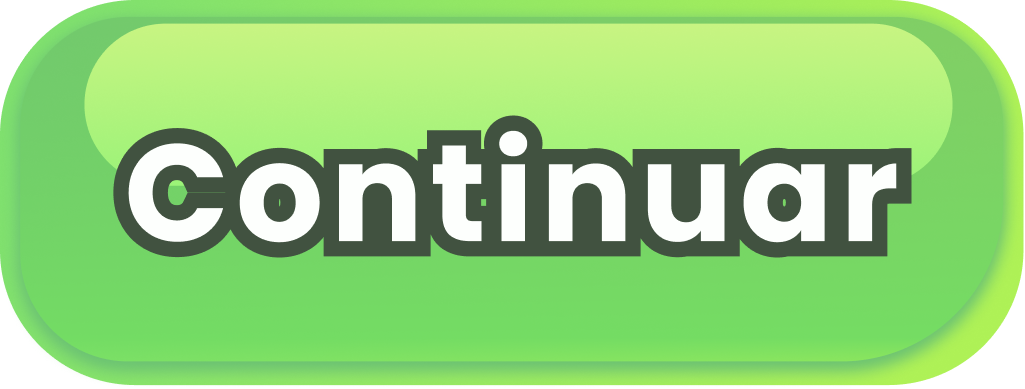
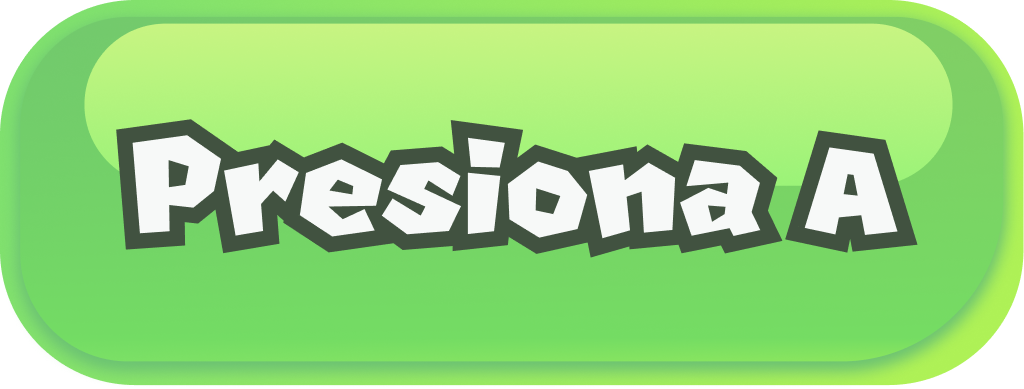
Responsive interfaces Mupi

Changed region(s): [[0.0938, 0.2776, 0.9062, 0.6787]]

diff --git a/node-serial-com-websocket-server/public-home/style.css b/node-serial-com-websocket-server/public-home/style.css
@@ -87,7 +87,7 @@ button:active:after {
 /* Screens */
 
 #Home{
-    display: block;
+    display: none;
 }
 
 #Connected{
@@ -115,16 +115,16 @@ button:active:after {
 }
 
 #Disconnect{
-    display: none;
+    display: block;
 }
 
 /* Home */
 
     #SMUpLogo{
         position: absolute;
-        width: 13vw;
-        left: 4.5vw;
-        top: 4.6vh;
+        width: 248px;
+        left: 28.43px;
+        top: 50.23px;
     }
 
     #NubesFront{
@@ -147,27 +147,27 @@ button:active:after {
 
     #NintendoLogo{
         position: absolute;
-        width: 10.4vw;
+        width: 200px;
         height: auto;
-        left: 42vw;
-        top: 4.6vh;
+        left: 634px;
+        top: 34px;
     }
 
     #titleHome{
         color: #E1F3FE;
         font-family: 'MARIO_Font_v3_Solid';
-        font-size: 35px;
+        font-size: 50px;
         font-weight: 700;
         position: absolute;
-        width: 398px;
+        width: 399.91px;
         height: 48px;
-        left: 0;
-        top: 115vh;
+        left: 9px;
+        top: 803.82px;
         letter-spacing: 0.2rem;
         text-align: center;
         transform: rotate(-5.43deg);
         text-shadow: 0px 4px 4px rgba(0, 0, 0, 0.25);
-        line-height: 4.6vh;
+        line-height: 50px;
     }
 
     
@@ -181,25 +181,34 @@ button:active:after {
     
     #GoombaFalling{
         position: absolute;
-        width: 13vw;
+        width: 196px;
         height: auto;
-        left: 20vw;
-        top: 958px;
+        left: 362px;
+        top: 955px;
         z-index: 3;
     }
     
     #MarioFlag{
         position: absolute;
-        width: 38vw;
+        width: 565px;
         height: auto;
-        right: 1.5vw;
-        bottom: 0;
+        left: 288px;
+        top: 200px;
         filter: drop-shadow(0px 4px 4px rgba(0, 0, 0, 0.25));
     }
     
     #LineasFondo{
         width: 859px;
         height: 1253px;
+    }
+
+    #continueHome{
+        position: absolute;
+        width: 203.92px;
+        height: auto;
+        left: 107.26px;
+        top: 915.17px;
+        transform: rotate(-5.28deg);
     }
 
 /* Mupi connected / Bienvenida */
@@ -211,20 +220,21 @@ button:active:after {
 
             #titleBienvenida{
                 position: absolute;
-                width: 700px;
-                height: 90px;
-                left: 70px;
-                top: 87px;
+                width: 696px;
+                height: 159px;
+                left: 87px;
+                top: 111px;
+
                 font-family: 'MARIO_Font_v3_Solid';
                 font-weight: 700;
-                font-size: 5.4vw;
-                line-height: 80px;
+                font-size: 100px;
+                line-height: 74px;
                 text-align: center;
-                background-image: -webkit-linear-gradient( #FBE883 20%, #F2C700 80%, #EEC300 80%);
+                background: linear-gradient(180deg, #FBE883 9.12%, #F2C700 60.84%, #EEC300 95.91%);
                 -webkit-background-clip: text;
                 -webkit-text-fill-color: transparent;
-                -webkit-text-stroke: 5.3px black;
-                letter-spacing: -0.18rem;
+                -webkit-text-stroke: 6px black;
+                letter-spacing: -0.025em;
                 
             }
 
@@ -232,18 +242,18 @@ button:active:after {
                 position: absolute;
                 width: 707px;
                 height: 548.54px;
-                right: 5vw;
+                left: 76px;
                 top: 294px; 
             }
 
                 #descriptionConnected{
                     position: absolute;
-                    width: 504px;
-                    height: 22px;
+                    width: 500px;
+                    height: 78px;
                     left: 146px;
-                    top: 47vh;
+                    top: 339px;
                     font-style: normal;
-                    font-weight: 500;
+                    font-weight: 600;
                     font-size: 35px;
                     line-height: 39px;
                     text-align: left;
@@ -259,17 +269,17 @@ button:active:after {
                     left: 146px;
                     top: 464px;
                     font-weight: 500;
-                    font-size: 27px;
+                    font-size: 30px;
                     line-height: 40px;
                     text-align: left;
                 }
 
                 #control{
                     position: absolute;
-                    width: 180px;
+                    width: 200px;
                     height: auto;
-                    right: 7vw;
-                    top: 87vh;
+                    left: 570px;
+                    top: 630px;
                     filter: drop-shadow(3.12329px 3.12329px 4.68493px rgba(0, 0, 0, 0.3));
                     transform: rotate(-25deg);
                 }
@@ -278,8 +288,8 @@ button:active:after {
                 position: absolute;
                 width: 291.13px;
                 height: 380.03px;
-                right: 2vw;
-                bottom: 4vh;
+                left: 560px;
+                top: 813px;
                 z-index: 2;
             }
 
@@ -346,12 +356,12 @@ span { font-weight: 700; color: #FF5C00}
         text-align: center;
         width: 700px;
         height: 254px;
-        left: 0;
-        top: -35vh;
+        left: 0px;
+        top: -255px;
         font-family: 'MARIO_Font_v3_Solid';
         font-weight: 700;
-        font-size: 5.4vw;
-        line-height: 80px;
+        font-size: 100px;
+        line-height: 88px;
         text-align: center;
         color: #970202;
         text-shadow: 
@@ -359,7 +369,7 @@ span { font-weight: 700; color: #FF5C00}
             7px -7px 0 #fff,
             -7px 7px 0 #fff,
             7px 7px 0 #fff;
-        letter-spacing: -0.18rem;
+        letter-spacing: 0.05em;
     }
 
     #ModalOver {
@@ -463,7 +473,7 @@ span { font-weight: 700; color: #FF5C00}
     width: 580px;
     height: 150px;
     left: 139px;
-    top: 105vh;
+    top: 800px;
 }
 
 /* Formulario */
@@ -499,19 +509,19 @@ span { font-weight: 700; color: #FF5C00}
     #titleDisconnect{
             position: absolute;
             width: 700px;
-            height: 90px;
+            height: 100px;
             left: 0px;
             top: -220px;
             font-family: 'MARIO_Font_v3_Solid';
             font-weight: 700;
-            font-size: 5.4vw;
-            line-height: 80px;
+            font-size: 100px;
+            line-height: 74px;
             text-align: center;
             background-image: -webkit-linear-gradient( #FBE883 20%, #F2C700 80%, #EEC300 80%);
             -webkit-background-clip: text;
             -webkit-text-fill-color: transparent;
-            -webkit-text-stroke: 5.3px black;
-            letter-spacing: -0.18rem;
+            -webkit-text-stroke: 6px black;
+            letter-spacing: -0.025em;
     }
 
     #ModalDisconnect {
@@ -520,6 +530,7 @@ span { font-weight: 700; color: #FF5C00}
         height: 617px;
         left: 78px;
         top: 328px;
+        text-align: center;
         background: #F7F9F8;
         border: 4px solid #FFA800;
         border-radius: 24px;
@@ -552,7 +563,7 @@ span { font-weight: 700; color: #FF5C00}
         width: 380px;
         height: fit-content;
         left: 152px;
-        top: 375px;
+        top: 365px;
         font-weight: 800;
         font-size: 26px;
         line-height: 32px;
@@ -565,12 +576,32 @@ span { font-weight: 700; color: #FF5C00}
         width: 550px;
         height: 96px;
         left: 75px;
-        top: 465px;
+        top: 455px;
         font-weight: 400;
         font-size: 20px;
         line-height: 30px;
         text-align: center;
         color: #000000;
+    }
+
+    #desconectarDispositivo{
+        position: absolute;
+        width: 650px;
+        height: 92.35px;
+        left: 110px;
+        top: 865px;
+
+        font-family: 'MARIO_Font_v3_Solid';
+        font-style: normal;
+        font-weight: 700;
+        font-size: 42px;
+        line-height: 43px;
+        text-align: center;
+        background-image: -webkit-linear-gradient( #FBE883 20%, #F2C700 80%, #EEC300 80%);
+            -webkit-background-clip: text;
+            -webkit-text-fill-color: transparent;
+            -webkit-text-stroke: 3px black;
+            letter-spacing: -0.025em;
     }
 
     #MarioStar{

diff --git a/node-serial-com-websocket-server/public-home/index.html b/node-serial-com-websocket-server/public-home/index.html
@@ -32,6 +32,7 @@
             </div>            
             <img src="./Images/Mario flag.png" alt="Mario" id="MarioFlag">
             <img src="./Images/Goomba falling.png" alt="Goomba" id="GoombaFalling">
+            <img src="./Images/Continue BTN.png" alt="Continue button" id="continueHome" />
         </div>
     </div>
 
@@ -141,7 +142,7 @@
                     <h1 id="titleDisconnect">¡Ganaste!</h1>
                 </div>
                 <div class="textScreen">
-                    <h3 id="titleDisconnect2">Haz ganado</h3>
+                    <h3 id="titleDisconnect2">Haz conseguido</h3>
                     <!-- <div id="Points">
                         <div id="NumPoints"></div>
                         <h1 id="TextPoints"> Puntos</h1>
@@ -154,7 +155,7 @@
                     <p id="InstructionDisconnect2">Reclama tu premio en nuestro stand. El código de descuento te llegará a tu correo.</p>
                 </div>
             </div>
-            <button type="button"><img src="./Images/Continue BTN.png" height ="96" width="256px" alt="Continue button" /></button>
+            <p id="desconectarDispositivo">Desconecta tu dispositivo</p>
             <img src="./Images/Mario star.png" alt="mario" id="MarioStar">
         </div>
     </div>
